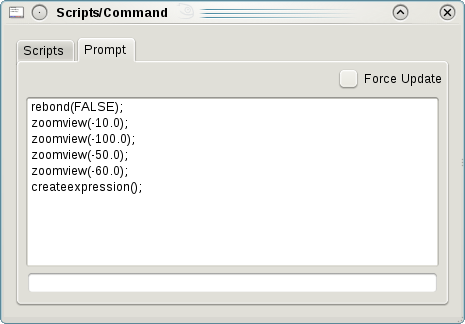
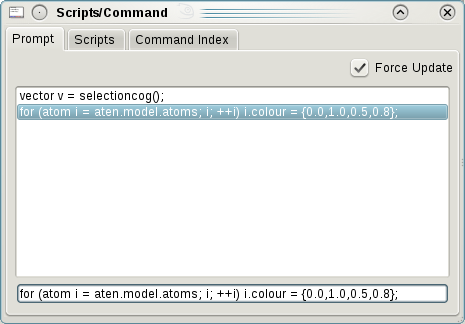
Removed all angle brackets from command syntax and descriptions, and corrected some minor mistakes in syntax strings. Fixed - Command search in Command window now works properly. Doc update (Command window).

Changed region(s): [[0.0, 0.0617, 0.9935, 1.0], [0.9935, 0.9877, 1.0, 1.0], [0.9935, 0.0, 1.0, 0.0309]]

diff --git a/src/command/commands.cpp b/src/command/commands.cpp
@@ -114,11 +114,11 @@ CommandData Command::data[Command::nCommands] = {
 		"Internal Operator (-)" },
 
 	// AST Nodes
-	{ "*nofunction*",	"",		VTypes::NoData, "",
+	{ "_nofunction_",	"",		VTypes::NoData, "",
 		"" },
-	{ "*joiner*",		"",		VTypes::NoData, "",
+	{ "_joiner_",		"",		VTypes::NoData, "",
 		"" },
-	{ "*declaration*",	"^Z*",		VTypes::NoData, "",
+	{ "_declaration_",	"^Z*",		VTypes::NoData, "",
 		"" },
 
 	// Analysis commands
@@ -158,7 +158,7 @@ CommandData Command::data[Command::nCommands] = {
 		"double r, double g, double b, double a = 1.0",
 		"Set the custom colour of all selected atoms" },
 	{ "currentatom",	"a",		VTypes::AtomData,
-		"atom|int id = <none>",
+		"atom|int id = 0",
 		"Make the specified atom (or atom id) the current atom, or return current atom" },
 	{ "fix",		"a",		VTypes::AtomData,
 		"atom|int id = 0",
@@ -226,7 +226,7 @@ CommandData Command::data[Command::nCommands] = {
 		"",
 		"Automatically augment all bonds in the current model" },
 	{ "bondtolerance",	"n",		VTypes::DoubleData,
-		"double tol = <prefs.bondtolerance",
+		"double tol = aten.prefs.bondtolerance",
 		"Set bonding tolerance for automatic calculation" },
 	{ "clearbonds",		"",		VTypes::NoData,
 		"",
@@ -241,13 +241,13 @@ CommandData Command::data[Command::nCommands] = {
 		"int id1, int id2, string|int|double bondtype = 1",
 		"Create a bond between atoms with ids specified" },
 	{ "rebond",		"b",		VTypes::NoData,
-		"bool augment = <aten.prefs.augmentafterrebond>",
+		"bool augment = aten.prefs.augmentafterrebond",
 		"Calculate bonding in the current model" },
 	{ "rebondpatterns",	"b",		VTypes::NoData,
-		"bool augment = <aten.prefs.augmentafterrebond>",
+		"bool augment = aten.prefs.augmentafterrebond",
 		"Calculate bonds between atoms, restricted to atoms in pattern molecules" },
 	{ "rebondselection",	"b",		VTypes::NoData,
-		"bool augment = <aten.prefs.augmentafterrebond>",
+		"bool augment = aten.prefs.augmentafterrebond",
 		"Calculate bonds between atoms in the current selection" },
 
 	// Build commands
@@ -318,7 +318,7 @@ CommandData Command::data[Command::nCommands] = {
 		"Manually add a spacegroup generator definition to the current model's cell" },
 	{ "adjustcell",		"CN",		VTypes::NoData,
 		"string quantity, double change",
-		"Adjust a single value of the current cell specification (e.g. <quantity, = a, beta, cz, etc.)" },
+		"Adjust a single value of the current cell specification (e.g. quantity = a, beta, cz, etc.)" },
 	{ "cell",		"NNNNNN",	VTypes::NoData,
 		"double a, double b, double c, double alpha, double beta, double gamma",
 		"Set or create a unit cell for the current model from lengths/angles provided" },
@@ -360,7 +360,7 @@ CommandData Command::data[Command::nCommands] = {
 		"Scale the unit cell and molecular positions of the current model" },
 	{ "setcell",		"CN",		VTypes::NoData,
 		"string quantity, double value",
-		"Set a single value of the current cell specification (e.g. <quantity, = a, beta, cz, etc.)" },
+		"Set a single value of the current cell specification (e.g. quantity = a, beta, cz, etc.)" },
 	{ "sginfo",		"C",		VTypes::IntegerData,
 		"string|int spacegroup",
 		"Invoke SGInfo, search for the spacegroup name/id provided, and print out its details" },
@@ -536,11 +536,11 @@ CommandData Command::data[Command::nCommands] = {
 		"",
 		"Perform a conditional test between the supplied expressions (or variables or constants)" },
 	{ "return",		"z",		VTypes::NoData,
-		"value = <no value>",
+		"value = 0",
 		"Terminate execution of the current program/filter/function, optionally returning the value provided" },
 	{ "while",		"_",		VTypes::NoData,
 		"",
-		"Run the enclosed block or statement as many times as <expression, evaluates to TRUE" },
+		"Run the enclosed block or statement as many times as the bracketed expression evaluates to TRUE" },
 	
 	// Force commands
 	{ "frameforces",	"",		VTypes::NoData,
@@ -573,7 +573,7 @@ CommandData Command::data[Command::nCommands] = {
 		"bool nointra = FALSE, bool allowdummy = FALSE",
 		"Create a forcefield expression for the current model" },
 	{ "currentff",		"f",		VTypes::ForcefieldData,
-		"string|int|forcefield f = <none>",
+		"string|int|forcefield f = null",
 		"Make the specified forcefield (or forcefield id) the current forcefield, or return current forcefield" },
 	{ "defaultff",		"F",		VTypes::NoData,
 		"string|int|forcefield ff",
@@ -651,7 +651,7 @@ CommandData Command::data[Command::nCommands] = {
 		"string form, string type1, string type2, string type3, string type4, double data1, double data2 = 0.0 ...",
 		"Add a torsion definition to the current forcefield" },
 	{ "typedef",		"NCCECc", VTypes::NoData,
-		"int typeid, string name, string equiv, element el, string neta, string description = <empty>",
+		"int typeid, string name, string equiv, element el, string neta, string description = null",
 		"Add an atom type to the current forcefield" },
 	{ "typemodel",		"",		VTypes::IntegerData,
 		"",
@@ -665,10 +665,10 @@ CommandData Command::data[Command::nCommands] = {
 
 	// Glyph commands
 	{ "autoellipsoids",	"c*",		VTypes::NoData,
-		"string option = <empty> ...",
+		"string option = null, ...",
 		"Automatically add ellipsoids to the current atom selection" },
 	{ "autopolyhedra",	"c*",		VTypes::NoData,
-		"string option = <empty> ...",
+		"string option = null, ...",
 		"Automatically add polyhedra to the current atom selection" },
 	{ "glyphatomf",		"Na",		VTypes::NoData,
 		"int n, atom|int id = 0",
@@ -696,7 +696,7 @@ CommandData Command::data[Command::nCommands] = {
 		"Set colour of all data points in current glyph" },
 	{ "glyphdata",		"NNnn",		VTypes::NoData,
 		"int n, double x, double y = 0.0, double z = 0.0",
-		"Set vector data <n, in current glyph" },
+		"Set n'th vector data in current glyph" },
 	{ "glyphsolid",		"B",		VTypes::NoData,
 		"bool solid"
 		"Set the glyph to be drawn in solid (true) or wireframe (false) modes (glyph-permitting)" },
@@ -704,7 +704,7 @@ CommandData Command::data[Command::nCommands] = {
 		"string text",
 		"Set text data in current glyph" },
 	{ "newglyph",		"Cc",		VTypes::GlyphData,
-		"string style, string options = \"<none>\"",
+		"string style, string options = null",
 		"Add a glyph of the specified style to the current model, and with any specified options" },
 
 	// Grid commands
@@ -718,7 +718,7 @@ CommandData Command::data[Command::nCommands] = {
 		"double value",
 		"Add next gridpoint value" },
 	{ "currentgrid",	"g",		VTypes::GridData,
-		"grid|int g = <none>",
+		"grid|int g = null",
 		"Make the specified grid (or grid id) the current grid, or return current grid" },
 	{ "finalisegrid",	"",		VTypes::NoData,
 		"",
@@ -926,10 +926,10 @@ CommandData Command::data[Command::nCommands] = {
 		"",
 		"Create enough atoms in the current trajectory frame to match the parent model" },
 	{ "currentmodel",	"m",		VTypes::ModelData,
-		"string|int|model m = <no value>",
+		"string|int|model m = null",
 		"Return reference to the current model, or set the current model" },
 	{ "deletemodel",	"m",		VTypes::NoData,
-		"string|int|model m = <currentmodel>",
+		"string|int|model m = null",
 		"Delete the named (loaded) model" },
 	{ "finalisemodel",	"",		VTypes::NoData,
 		"",
@@ -950,7 +950,7 @@ CommandData Command::data[Command::nCommands] = {
 		"",
 		"List the currently-loaded models" },
 	{ "loadmodel",		"Cc^m",		VTypes::IntegerData,
-		"string filename, string name = <automatic>, model &newcurrent",
+		"string filename, string name = null, model &newcurrent = null",
 		"Load a model from filename specified, optionally setting new name and retrieving new model pointer" },
 	{ "loginfo",		"",		VTypes::NoData,
 		"",
@@ -988,10 +988,10 @@ CommandData Command::data[Command::nCommands] = {
 		"atom|int id, string type",
 		"Adds a new basis shell definition with the specified type, centred on the specified atom" },
 	{ "neweigenvector",	"n",		VTypes::EigenvectorData,
-		"int size = <auto>",
+		"int size = -1",
 		"Creates a new, empty eigenvector in the model to match the size of the current basis functions list (if a size is not specified" },
 	{ "newvibration",	"c",		VTypes::VibrationData,
-		"string name = <none>",
+		"string name =  null",
 		"Create a new vibration in the current model" },
 
 	// Pattern commands
@@ -1002,7 +1002,7 @@ CommandData Command::data[Command::nCommands] = {
 		"",
 		"Automatically determine pattern definitions for the current model" },
 	{ "currentpattern",	"p",		VTypes::PatternData,
-		"string|int|pattern p = <none>",
+		"string|int|pattern p = null",
 		"Make the specified pattern (or pattern id) the current pattern, or return current pattern" },
 	{ "fixpattern",		"B",		VTypes::NoData,
 		"bool fixed",
@@ -1028,16 +1028,16 @@ CommandData Command::data[Command::nCommands] = {
 		"",
 		"Returns the name of the file that the current filter is reading from / writing to" },
 	{ "find",		"C^c",		VTypes::IntegerData,
-		"string source, string var = <none>",
+		"string source, string var = null",
 		"Search for a string in the input file (placing matching line in optional variable)" },
 	{ "getline",		"^C",		VTypes::IntegerData,
 		"string var",
 		"Read the next line from the file, placing in variable supplied, and returning read success" },
 	{ "nextarg",		"^Z",		VTypes::IntegerData,
-		"<variable> var",
+		"string|int|double &var",
 		"Read the next whitespace-delimited argument from the current file" },
 	{ "nextvararg",		"^C^Z",		VTypes::IntegerData,
-		"string sourcevar, <variable> var",
+		"string sourcevar, string|int|double &var",
 		"Read the next whitespace-delimited argument from the specified string variable" },
 	{ "peekchar",		"",		VTypes::StringData,
 		"", 
@@ -1049,13 +1049,13 @@ CommandData Command::data[Command::nCommands] = {
 		"int nchars, bool skipeol = TRUE",
 		"Read a number of characters from the input file" },
 	{ "readdouble",		"n",		VTypes::DoubleData,
-		"int nbytes = <sizeof(double)>",
+		"int nbytes = sizeof(double)",
 		"Read a floating point value from the (binary) input file" },
 	{ "readdoublearray",	"&DN",		VTypes::IntegerData,
 		"double arrayvar, int nvalues",
 		"Read floating point values from the (binary) input file, placing in the array provided" },
 	{ "readint",		"n",		VTypes::IntegerData,
-		"int nbytes = <sizeof(int)>",
+		"int nbytes = sizeof(int)",
 		"Read an integer value from the (binary) input file" },
 	{ "readintarray",	"&IN",		VTypes::IntegerData,
 		"int arrayvar, int nvalues",
@@ -1104,7 +1104,7 @@ CommandData Command::data[Command::nCommands] = {
 		"",
 		"List available scripts" },
 	{ "loadscript",		"Cc",		VTypes::NoData,
-		"<filename, [nickname]",
+		"string filename, string nickname = null",
 		"Load script from file" },
 	{ "runscript",		"S",		VTypes::NoData,
 		"string name",
@@ -1149,7 +1149,7 @@ CommandData Command::data[Command::nCommands] = {
 		"Return centre of mass of current selection" },
 	{ "selectline",		"NNNNNNN",	VTypes::IntegerData,
 		"double lx, double ly, double lz, double x, double y, double z, double dr",
-		"Select all atoms within a distance dr, from a line <lxyz>, containing a point <xyz>" },
+		"Select all atoms within a distance dr, from a line defined by vector {lx,lyl,z} and containing point {x,y,z}" },
 	{ "selectmiller",	"NNNn",		VTypes::NoData,
 		"int h, int k, int l, bool inside = FALSE",
 		"Select all atoms that would be removed if a cleave of the supplied Miller plane `was performed" },
@@ -1183,7 +1183,7 @@ CommandData Command::data[Command::nCommands] = {
 		"",
 		"Print all sites defined for the current model" },
 	{ "newsite",		"CCc",		VTypes::NoData,
-		"string name, string pattern, string atomlist = <empty>",
+		"string name, string pattern, string atomlist = null",
 		"Adds a new site definition to the current model" },
 	{ "siteaxes",		"CC",		VTypes::NoData,
 		"string atomlist, string atomlist",
@@ -1264,7 +1264,7 @@ CommandData Command::data[Command::nCommands] = {
 
 	// Trajectory commands
 	{ "addframe",		"c",		VTypes::ModelData,
-		"string name = <empty>",
+		"string name = null",
 		"Add a new trajectory frame to the current model (which becomes the the current model)" },
 	{ "cleartrajectory",	"",		VTypes::NoData,
 		"",
@@ -1386,8 +1386,9 @@ CommandData Command::data[Command::nCommands] = {
 // Return enumerated command from string
 Command::Function Command::command(const char *s)
 {
+	// We skip operators and tree-specific nodes
 	int result;
-	for (result = Command::NoFunction; result < Command::nCommands; result++) if (strcmp(data[result].keyword,s) == 0) break;
+	for (result = Command::Declarations+1; result < Command::nCommands; ++result) if (strcmp(data[result].keyword,s) == 0) break;
 	return (Command::Function) result;
 }
 

diff --git a/src/gui/command_funcs.cpp b/src/gui/command_funcs.cpp
@@ -239,11 +239,19 @@ void AtenCommand::runScript()
 void AtenCommand::repopulateCommandList(const char *search)
 {
 	ui.CommandList->clear();
-	for (int cf = 0; cf < Command::nCommands; ++cf)
+	for (int cf = Command::Declarations+1; cf < Command::nCommands; ++cf)
 	{
+		// Skip over commands beginning with '_' or ones which have no keyword defined (internals)
+		if ((commands.data[cf].keyword == NULL) || (commands.data[cf].keyword[0] == '_')) continue;
 		if (search == NULL) ui.CommandList->insertItem(cf, commands.data[cf].keyword);
 		else if (strstr(commands.data[cf].keyword, search) != 0) ui.CommandList->insertItem(cf, commands.data[cf].keyword);
 	}
+}
+
+void AtenCommand::on_ClearSearchButton_clicked(bool checked)
+{
+	ui.CommandSearchEdit->clear();
+	repopulateCommandList(NULL);
 }
 
 void AtenCommand::on_CommandSearchEdit_textChanged(QString text)
@@ -251,11 +259,14 @@ void AtenCommand::on_CommandSearchEdit_textChanged(QString text)
 	repopulateCommandList(qPrintable(text));
 }
 
-void AtenCommand::on_CommandList_currentRowChanged(int row)
+void AtenCommand::on_CommandList_currentTextChanged(const QString &text)
 {
-	Dnchar text;
- 	if (commands.data[row].hasArguments()) text.sprintf("<b>%s(%s)</b><br/>", commands.data[row].keyword, commands.data[row].argText);
-	else text.sprintf("<b>%s</b><br/>       %s", commands.data[row].keyword, commands.data[row].syntax);
-	text.strcatf("Syntax: %s\n", commands.data[row].syntax);
-	ui.CommandEdit->insertHtml(text.get());
+	ui.CommandEdit->clear();
+	if (ui.CommandList->currentRow() == -1) return;
+	// Find keyword
+	Command::Function cf = commands.command(qPrintable(text));
+	if (cf == Command::nCommands) return;
+	Dnchar cmdtext;
+ 	cmdtext.sprintf("<b>%s(%s)</b><br/>%s", commands.data[cf].keyword, commands.data[cf].hasArguments() ? commands.data[cf].argText : "", commands.data[cf].syntax);
+	ui.CommandEdit->insertHtml(cmdtext.get());
 }

diff --git a/src/gui/command.h b/src/gui/command.h
@@ -76,8 +76,9 @@ class AtenCommand : public QDialog
 	private:
 	void repopulateCommandList(const char *search);
 	private slots:
+	void on_ClearSearchButton_clicked(bool checked);
 	void on_CommandSearchEdit_textChanged(QString test);
-	void on_CommandList_currentRowChanged(int row);
+	void on_CommandList_currentTextChanged(const QString &text);
 
 
 	/*

diff --git a/src/main/version.h b/src/main/version.h
@@ -23,8 +23,8 @@
 #define ATEN_VERSION_H
 
 #define ATENVERSION "1.6"
-#define ATENREVISION "1330"
-#define ATENDATE "Thu 28 Oct - 16:59"
+#define ATENREVISION "1331"
+#define ATENDATE "Sat 30 Oct - 12:47"
 #define ATENURL "http://aten.googlecode.com/svn/trunk"
 
 #endif
